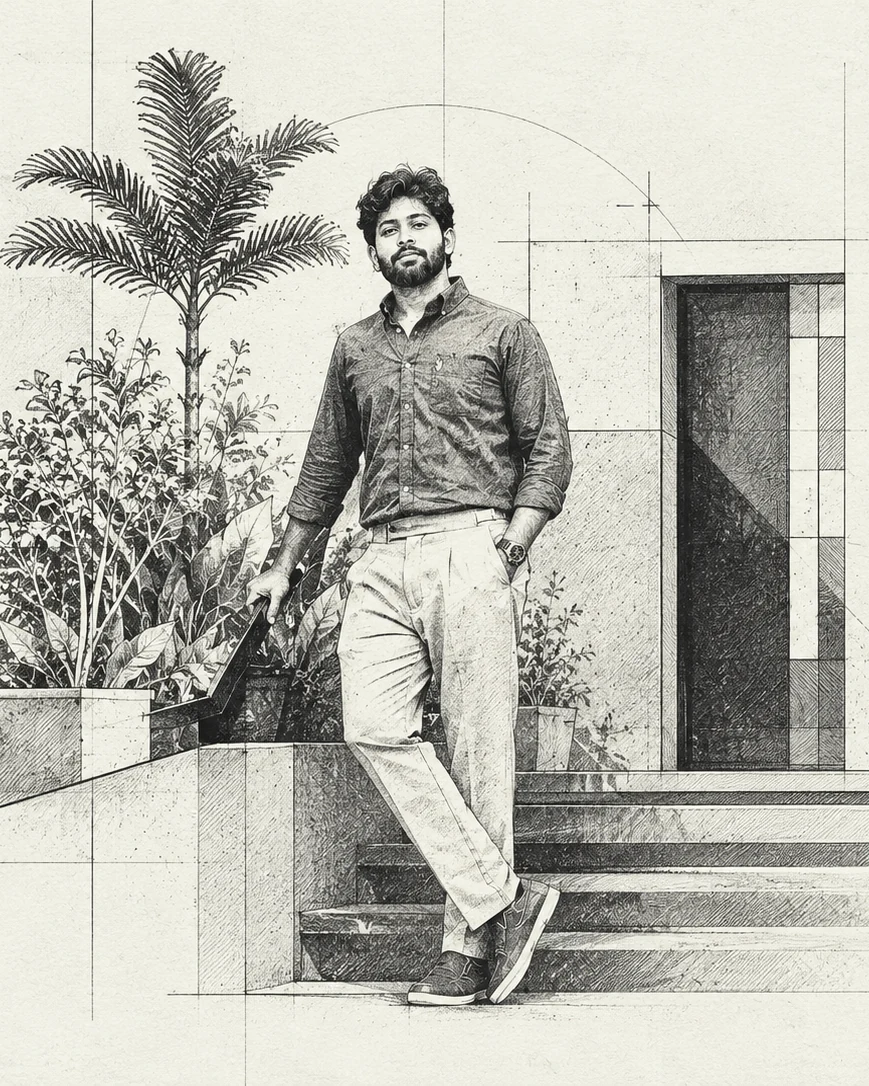
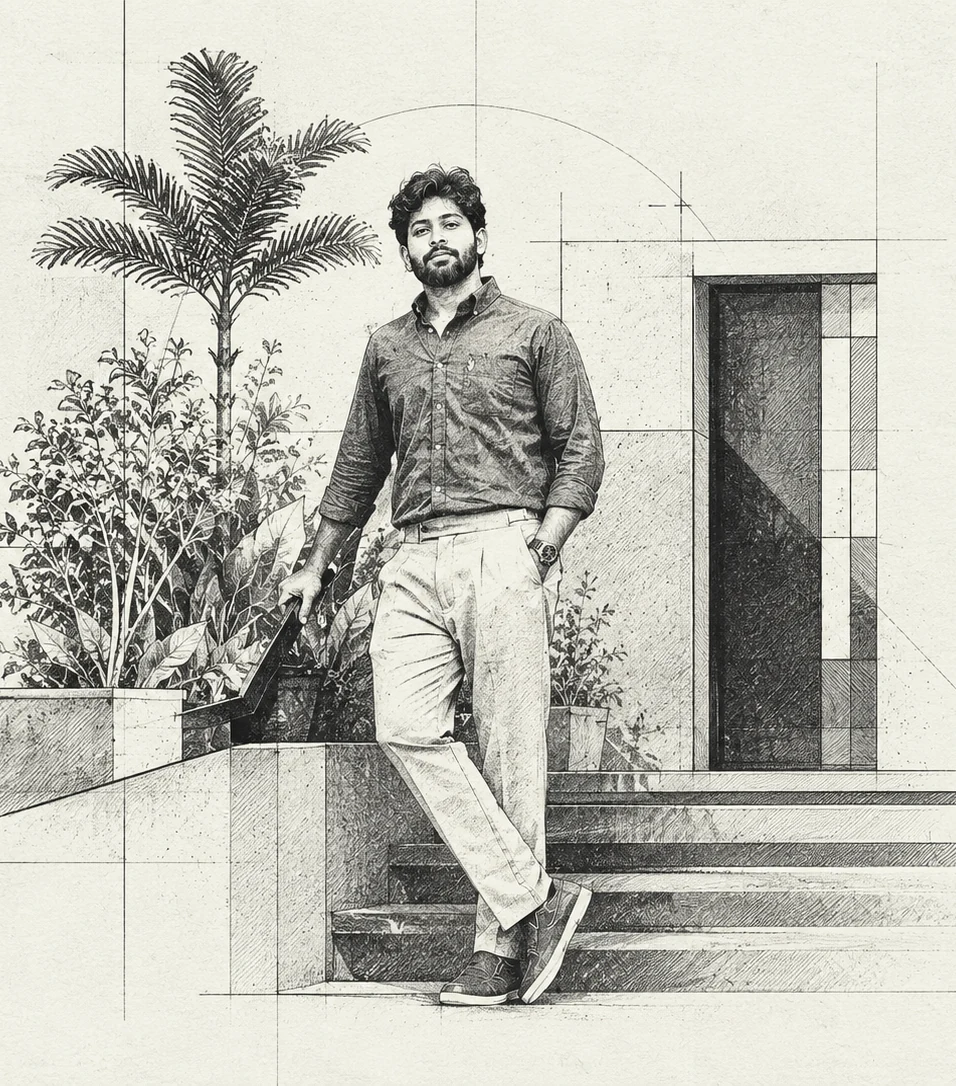
Hero: zoom out the illustration
Wider crop (up to the margin text), figure may take 92% of the column,
lighter edge fade; markers adjusted.

diff --git a/src/components/Hero.jsx b/src/components/Hero.jsx
@@ -21,9 +21,9 @@ const facts = [
 // Callouts pinned to the photo (positions are % of the photo box). `open` places the
 // callout so it never covers the face.
 const markers = [
-  { x: 56, y: 18, open: "left-3 top-3", code: "01", title: titles[0], note: titles.slice(1).join(" · ") },
-  { x: 50, y: 34, open: "right-3 top-3", code: "02", title: education.title, note: `${education.year} · Crescent Institute` },
-  { x: 59, y: 51, open: "left-3 top-3", code: "03", title: `${internships.length}× internships`, note: internships[0].company },
+  { x: 54, y: 18, open: "left-3 top-3", code: "01", title: titles[0], note: titles.slice(1).join(" · ") },
+  { x: 49, y: 34, open: "right-3 top-3", code: "02", title: education.title, note: `${education.year} · Crescent Institute` },
+  { x: 57, y: 51, open: "left-3 top-3", code: "03", title: `${internships.length}× internships`, note: internships[0].company },
 ];
 
 export default function Hero() {
@@ -201,7 +201,7 @@ export default function Hero() {
             <figure
               ref={figure}
               data-cursor="Click and drag to measure"
-              className="relative h-full max-w-[86%] aspect-[869/1086] touch-pan-y"
+              className="relative h-full max-w-[92%] aspect-[956/1086] touch-pan-y"
             >
               <figcaption className="label absolute -top-5 left-0 text-mute">Fig. 01 — {name}</figcaption>
 
@@ -210,16 +210,16 @@ export default function Hero() {
                 <img
                   src={avatar}
                   alt={`Drawing of ${name} on the steps of a building`}
-                  width="869"
+                  width="956"
                   height="1086"
                   fetchPriority="high"
                   className="h-full w-full object-cover"
                   style={{
                     maskImage:
-                      "linear-gradient(to right, transparent, #000 7%, #000 93%, transparent), linear-gradient(to bottom, transparent, #000 5%, #000 92%, transparent)",
+                      "linear-gradient(to right, transparent, #000 4%, #000 96%, transparent), linear-gradient(to bottom, transparent, #000 3%, #000 95%, transparent)",
                     maskComposite: "intersect",
                     WebkitMaskImage:
-                      "linear-gradient(to right, transparent, #000 7%, #000 93%, transparent), linear-gradient(to bottom, transparent, #000 5%, #000 92%, transparent)",
+                      "linear-gradient(to right, transparent, #000 4%, #000 96%, transparent), linear-gradient(to bottom, transparent, #000 3%, #000 95%, transparent)",
                     WebkitMaskComposite: "source-in",
                   }}
                   draggable="false"
